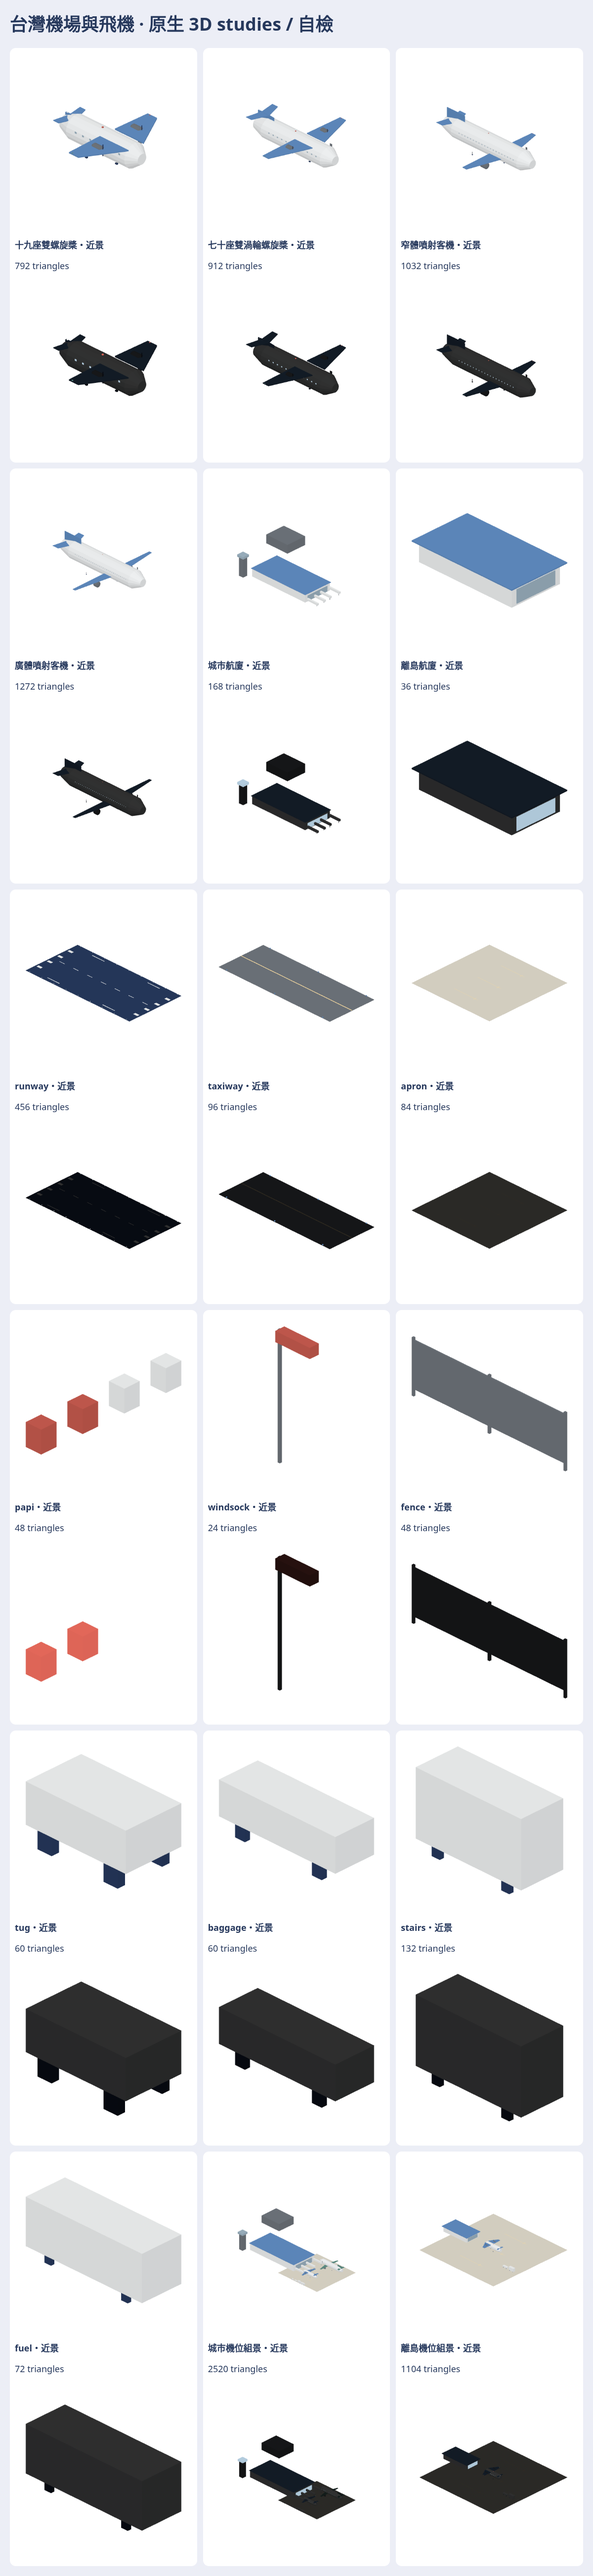
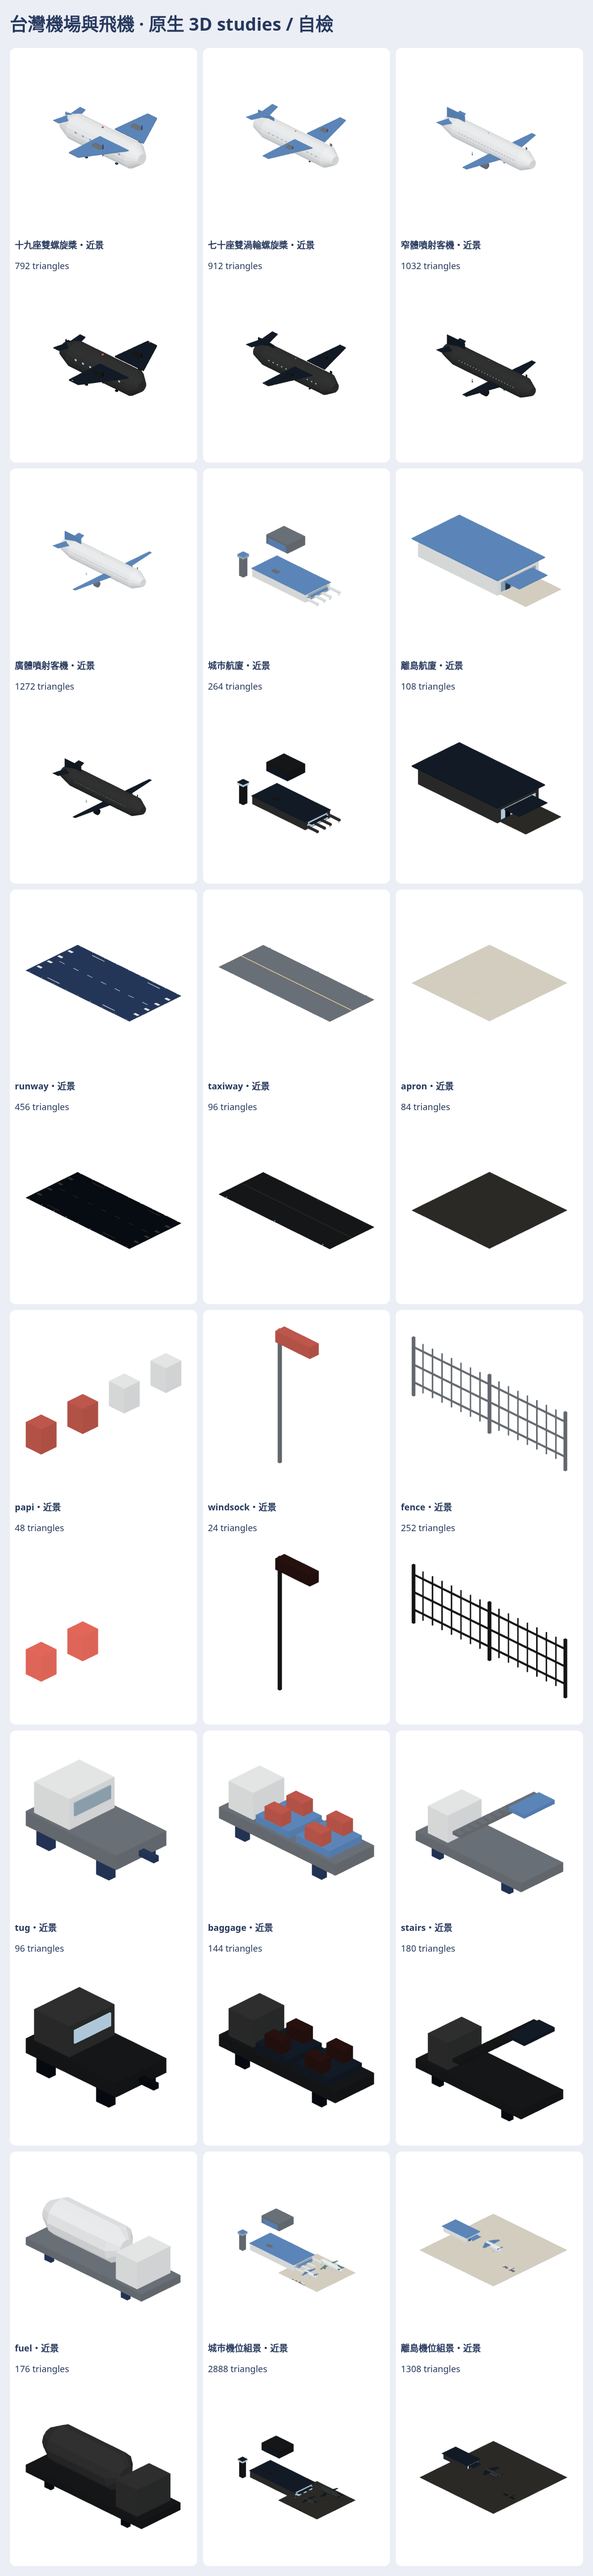
Refine terminals and distinct ground equipment

diff --git a/Sources/GamePresentation/Map3DAirportStudies.swift b/Sources/GamePresentation/Map3DAirportStudies.swift
@@ -55,15 +55,23 @@ public enum Map3DAirportStudies {
             b.box(0,0,0,l,w,h,white)
             b.box(0,h,0,l+2,w+2,.25,blue)
             b.box(l*.5,0,0,.08,w*.8,h*.7,glass)
+            b.box(l*.5+2.3,h*.60,0,5,w*.68,.19,blue)
+            for z in [-w*.31,Float(0),w*.31] { b.box(l*.5+.11,.55,z,.08,.15,h*.55,white) }
             if city {
+                b.box(-l*.21,h+.25,-w*.17,9,5,1.55,steel)
                 b.box(-54,0,-27,7,7,26,steel)
                 b.box(-54,26,-27,10,10,3,glass)
+                b.box(-54,29,-27,10.5,10.5,.22,blue)
                 b.box(-72,0,63,36,30,12,steel)
+                b.box(-72,0,47.95,30,.09,9,blue)
                 for y:Float in [-17,-5,5,20] {
                     let base:Float=y<0 ? 2 : 3.1
                     b.box(54,base,y,18,2.4,2.5,white)
                     b.box(61,0,y,.3,.3,base,steel)
                 }
+            } else {
+                b.box(l*.5+.14,.55,-w*.26,.10,1.55,2.25,dark)
+                b.box(l*.5+4,0,0,8,w*.86,.08,deck)
             }
         case .runway:
             b.box(0,0,0,60,30,.08,dark)
@@ -90,15 +98,35 @@ public enum Map3DAirportStudies {
             b.box(0,0,0,.10,.10,5,steel);b.box(.8,4.6,0,1.6,.42,.42,yellow)
         case .fence:
             for x:Float in [-4,0,4] { b.box(x,0,0,.1,.1,2.5,steel) }
-            b.box(0,.3,0,8,.06,2.1,steel)
+            for z:Float in [.55,1.30,2.05] { b.box(0,z,0,8,.055,.055,steel) }
+            if !far { for i in -7...7 { b.box(Float(i)*.5,.3,0,.035,.04,2.1,steel) } }
         case .tug, .baggageCart, .boardingStairs, .fuelTruck:
             let l:Float = switch kind { case .tug:2.7; case .baggageCart:4.5; case .boardingStairs:5; default:6.8 }
             let w:Float = kind == .fuelTruck ? 2.3 : 1.5
-            let h:Float = kind == .boardingStairs ? 3.2 : (kind == .fuelTruck ? 2.8 : 1.5)
-            b.box(0,.45,0,l,w,h-.45,white)
+            b.box(0,.38,0,l,w,.35,steel)
             for x in [-l*.33,l*.33] { for y in [-w*.4,w*.4] { b.box(x,0,y,.38,.2,.45,dark) } }
-            if kind == .boardingStairs && !far { for i in 0..<6 { b.box(-l*.4+Float(i)*.6,.45+Float(i)*.42,0,.65,1.3,.12,steel) } }
-            if kind == .fuelTruck { b.box(0,1.2,0,l*.72,w*.8,1.1,steel) }
+            switch kind {
+            case .tug:
+                b.box(-.65,.73,0,1.05,w*.9,.75,white)
+                b.box(-.11,1.02,0,.04,w*.72,.32,glass)
+                b.box(l*.55,.45,0,.62,.15,.13,dark)
+            case .baggageCart:
+                b.box(-1.55,.73,0,.95,w*.8,.85,white)
+                for x:Float in [-.3,1.25] {
+                    b.box(x,.73,0,1.3,w*.84,.22,blue)
+                    if !far { for z:Float in [-.42,.42] { b.box(x,.95,z,.65,.38,.4,yellow) } }
+                }
+            case .boardingStairs:
+                b.box(-1.65,.73,0,.95,w*.8,1.05,white)
+                let steps=far ? 4 : 8
+                for i in 0..<steps { b.box(-.9+Float(i)*2.9/Float(steps),.75+Float(i+1)*2.3/Float(steps),0,2.9/Float(steps)+.02,w*.66,.12,steel) }
+                b.box(2,3.05,0,.75,w*.72,.15,blue)
+            case .fuelTruck:
+                b.box(2.35,.73,0,1.25,w*.85,1.28,white)
+                b.box(-.9,.84,0,4.45,w*.7,1.68,white)
+                if !far { b.box(-.3,.88,w*.48,1.05,.18,.62,blue) }
+            default: break
+            }
         }
         return .flat(named:"airport-\(kind.rawValue)-\(far ? "far" : "near")",from:b.mesh)
     }

diff --git a/tools/airport-aircraft-studies/produce.py b/tools/airport-aircraft-studies/produce.py
@@ -135,17 +135,36 @@ def part(mesh, kind, far):
         mesh.box('mast',0,0,0,.10,.10,5,'steel');mesh.box('sock',.8,0,4.6,1.6,.42,.42,'red')
     elif kind=='fence':
         for x in (-4,0,4):mesh.box('post',x,0,0,.10,.10,2.5,'steel')
-        mesh.box('mesh-panel',0,0,.3,8,.06,2.1,'steel')
+        for z in (.55,1.30,2.05):mesh.box('horizontal-rail',0,0,z,8,.055,.055,'steel')
+        if not far:
+            for x in range(-7,8):mesh.box('vertical-wire',x*.5,0,.3,.035,.04,2.1,'steel')
     else:
-        dims={'tug':(2.7,1.5,1.4),'baggage':(4.5,1.5,1.6),
-              'stairs':(5,2,3.2),'fuel':(6.8,2.3,2.8)}
-        L,W,H=dims[kind]
-        mesh.box('body',0,0,.45,L,W,H-.45,'white')
+        dims={'tug':(2.7,1.5),'baggage':(4.5,1.5),
+              'stairs':(5,2),'fuel':(6.8,2.3)}
+        L,W=dims[kind]
+        mesh.box('chassis',0,0,.38,L,W,.35,'steel')
         for x in (-L*.33,L*.33):
             for y in (-W*.4,W*.4):mesh.box('wheel',x,y,0,.38,.20,.45,'dark')
-        if kind=='stairs':
-            for i in range(6):mesh.box('step',-L*.4+i*.6,0,.45+i*.42,.65,1.3,.12,'steel')
-        if kind=='fuel':mesh.box('tank',0,0,1.2,L*.72,W*.8,1.1,'steel')
+        if kind=='tug':
+            mesh.box('low-cab',-.65,0,.73,1.05,W*.9,.75,'white')
+            mesh.box('windshield',-.11,0,1.02,.04,W*.72,.32,'glass',1)
+            mesh.box('drawbar',L*.55,0,.45,.62,.15,.13,'dark')
+        elif kind=='baggage':
+            mesh.box('tractor-cab',-1.55,0,.73,.95,W*.8,.85,'white')
+            for x in (-.3,1.25):
+                mesh.box('open-cart',x,0,.73,1.30,W*.84,.22,'blue')
+                if not far:
+                    for y in (-.42,.42):mesh.box('bag',x,y,.95,.65,.38,.40,'red')
+        elif kind=='stairs':
+            mesh.box('driver-cab',-1.65,0,.73,.95,W*.8,1.05,'white')
+            steps=4 if far else 8
+            for i in range(steps):
+                mesh.box('stair-tread',-.9+i*2.9/steps,0,.75+(i+1)*2.30/steps,2.9/steps+.02,W*.66,.12,'steel')
+            mesh.box('upper-landing',2.0,0,3.05,.75,W*.72,.15,'blue')
+        else:
+            mesh.box('fuel-cab',2.35,0,.73,1.25,W*.85,1.28,'white')
+            tube(mesh,'sealed-fuel-tank',-3.1,1.35,0,.84,1.68,'white',8 if far else 12)
+            if not far:mesh.box('hose-box',-.3,W*.48,.88,1.05,.18,.62,'blue')
     return {'mount':'ground-z0'}
 
 def airport(mesh,kind,far):
@@ -154,11 +173,21 @@ def airport(mesh,kind,far):
     H=11 if city else 4.5
     mesh.box('main-building',0,0,0,L,W,H,'white')
     mesh.box('roof',0,0,H,L+2,W+2,.25,'blue')
-    mesh.box('glazed-front',L*.5+.04,0,.4,.08,W*.8,H*.7,'glass',1)
+    mesh.box('glazed-front',L*.5+.04,0,.55,.08,W*.84,H*.55,'glass',1)
+    mesh.box('entrance-canopy',L*.5+2.3,0,H*.60,5.0,W*.68,.19,'blue')
+    for y in (-W*.31,0,W*.31):
+        mesh.box('front-mullion',L*.5+.11,y,.55,.08,.15,H*.55,'white')
+    if not city:
+        mesh.box('walk-boarding-door',L*.5+.14,-W*.26,.55,.10,1.55,2.25,'dark')
+        mesh.box('island-platform',L*.5+4,0,0,8,W*.86,.08,'deck')
     if city:
+        mesh.box('upper-glazing',L*.5+.08,0,H*.66,.09,W*.78,H*.18,'glass',1)
+        mesh.box('roof-plant',-L*.21,-W*.17,H+.25,9,5,1.55,'steel')
         mesh.box('tower-base',-L*.6,-W*.65,0,7,7,26,'steel')
         mesh.box('tower-cab',-L*.6,-W*.65,26,10,10,3,'glass',1)
+        mesh.box('tower-roof',-L*.6,-W*.65,29,10.5,10.5,.22,'blue')
         mesh.box('hangar',-L*.8,W*1.5,0,36,30,12,'steel')
+        mesh.box('hangar-doors',-L*.8,W*1.5-15.05,0,30,.09,9,'blue')
         for y in (-17,-5,5,20):
             base=2.0 if y<0 else 3.1
             mesh.box('jetbridge',L*.5+9,y,base,18,2.4,2.5,'white')

diff --git a/docs/art/airport-aircraft-2026-11/README.md b/docs/art/airport-aircraft-2026-11/README.md
@@ -6,7 +6,7 @@
 
 ## 驗證
 
-- VERIFIED（本環境 Python）：每個幾何 solid 封底、正體積、非退化／有限、輪子最低點 z=0、LOD 三角減量、兩個城市機位的空橋端距艙門 <0.15 m 且機翼起點在空橋端後方 >0.5 m；全 36 單元最高近景 2,520 三角，低於 15,000。
+- VERIFIED（本環境 Python）：每個幾何 solid 封底、正體積、非退化／有限、輪子最低點 z=0、LOD 三角減量、兩個城市機位的空橋端距艙門 <0.15 m 且機翼起點在空橋端後方 >0.5 m；全 36 單元最高近景 2,888 三角，低於 15,000。
 - VERIFIED（本環境 Node/WebGL）：GLB 編碼契約四項測試過，36 個模型渲染日夜七方向共 504 張透明 RGBA PNG，離線 viewer 已產生；同一份自含 HTML 在封鎖網路的頁面中載入 36 型、900 × 600 canvas 並切換夜間。已人工看總覽與組景；仍需在作者看過後才判定外觀。
 - UNVERIFIED：本環境政策封鎖 `file://` 導航，未直接用該 URL 開 viewer；本機缺 Swift 工具鏈，`swift build --build-tests -Xswiftc -warnings-as-errors` 和指定 `swift test --skip-build --filter Map3DAirportAircraftStudiesTests` 無法執行。Metal 實機、實景地圖、動畫、跑道工程及營運全未驗。
 
